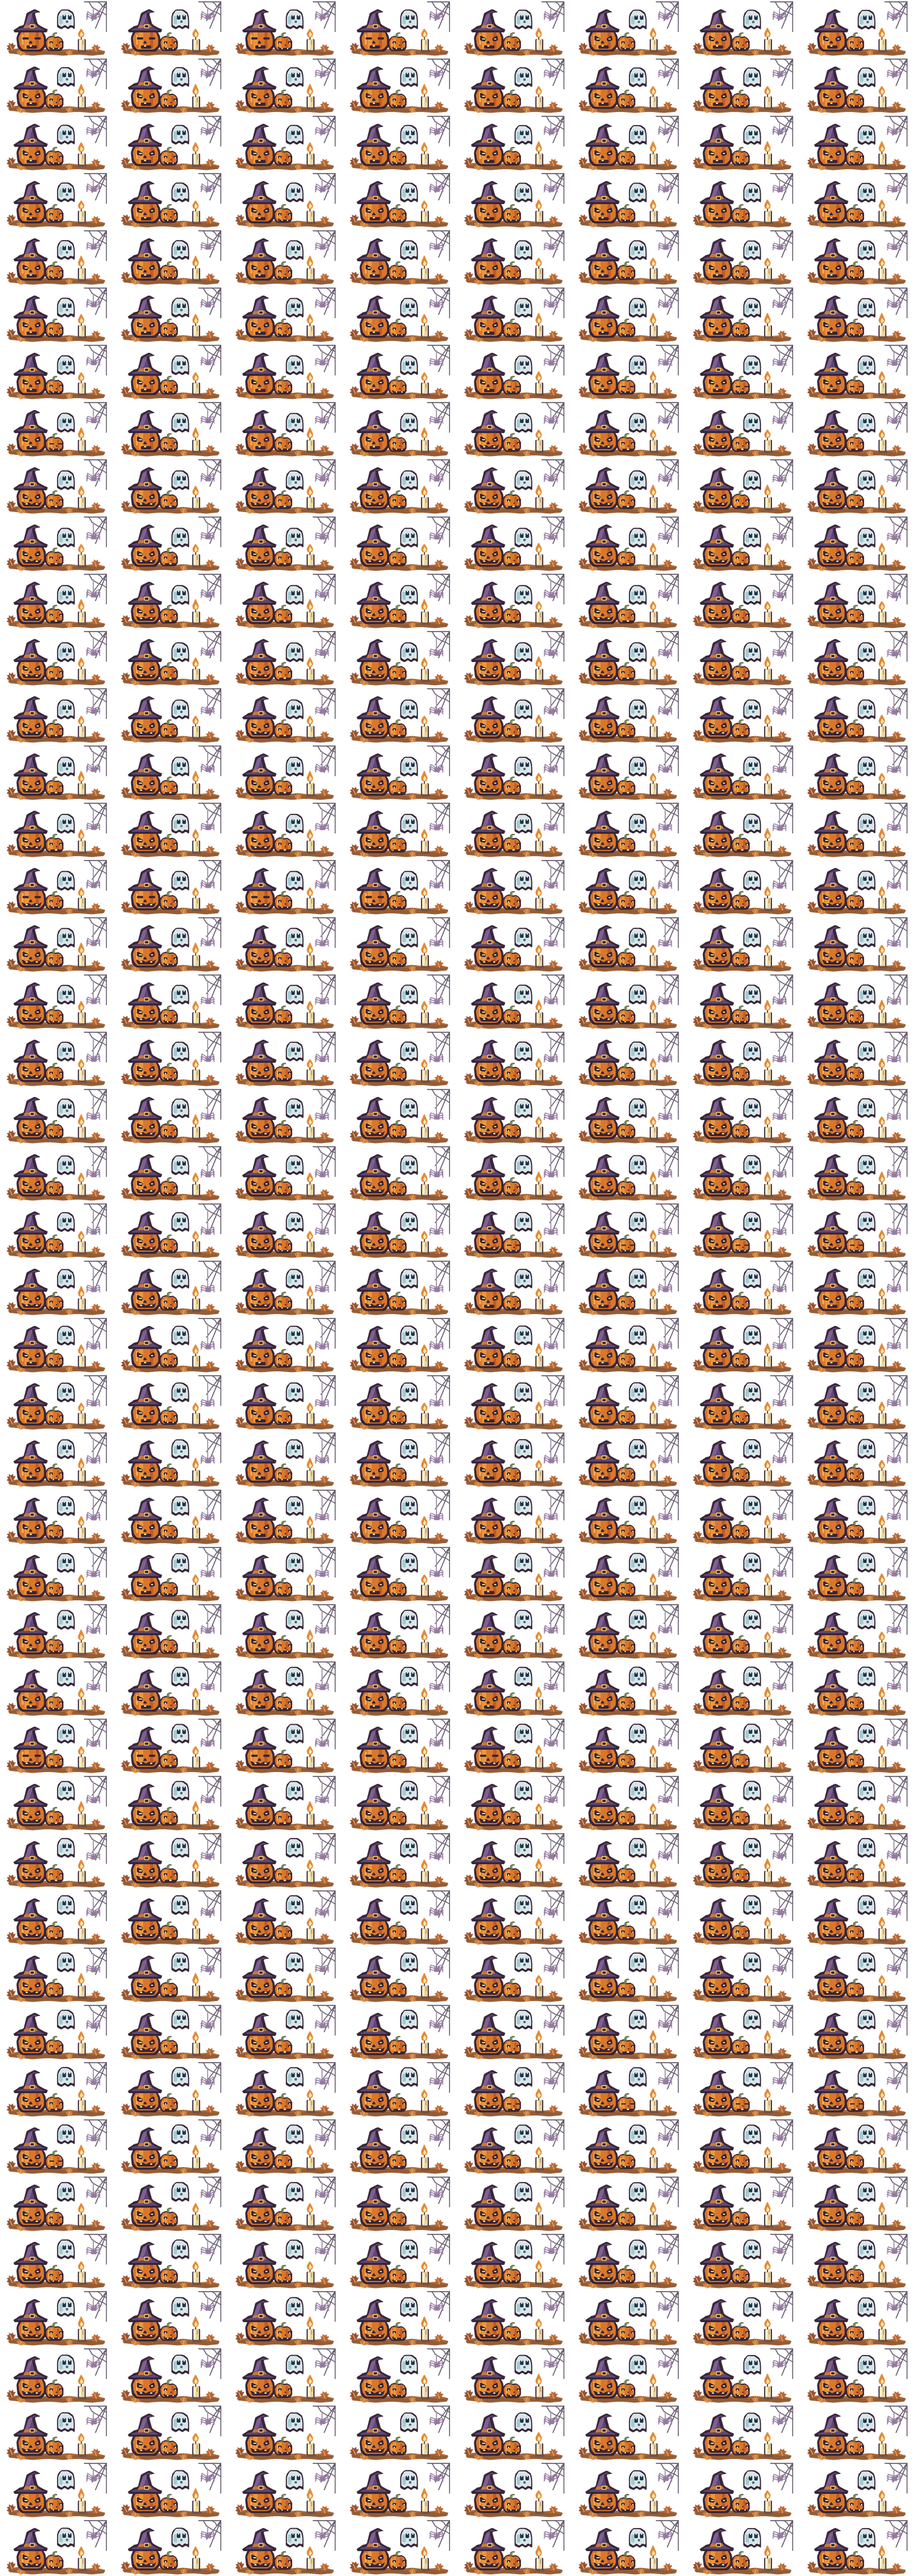
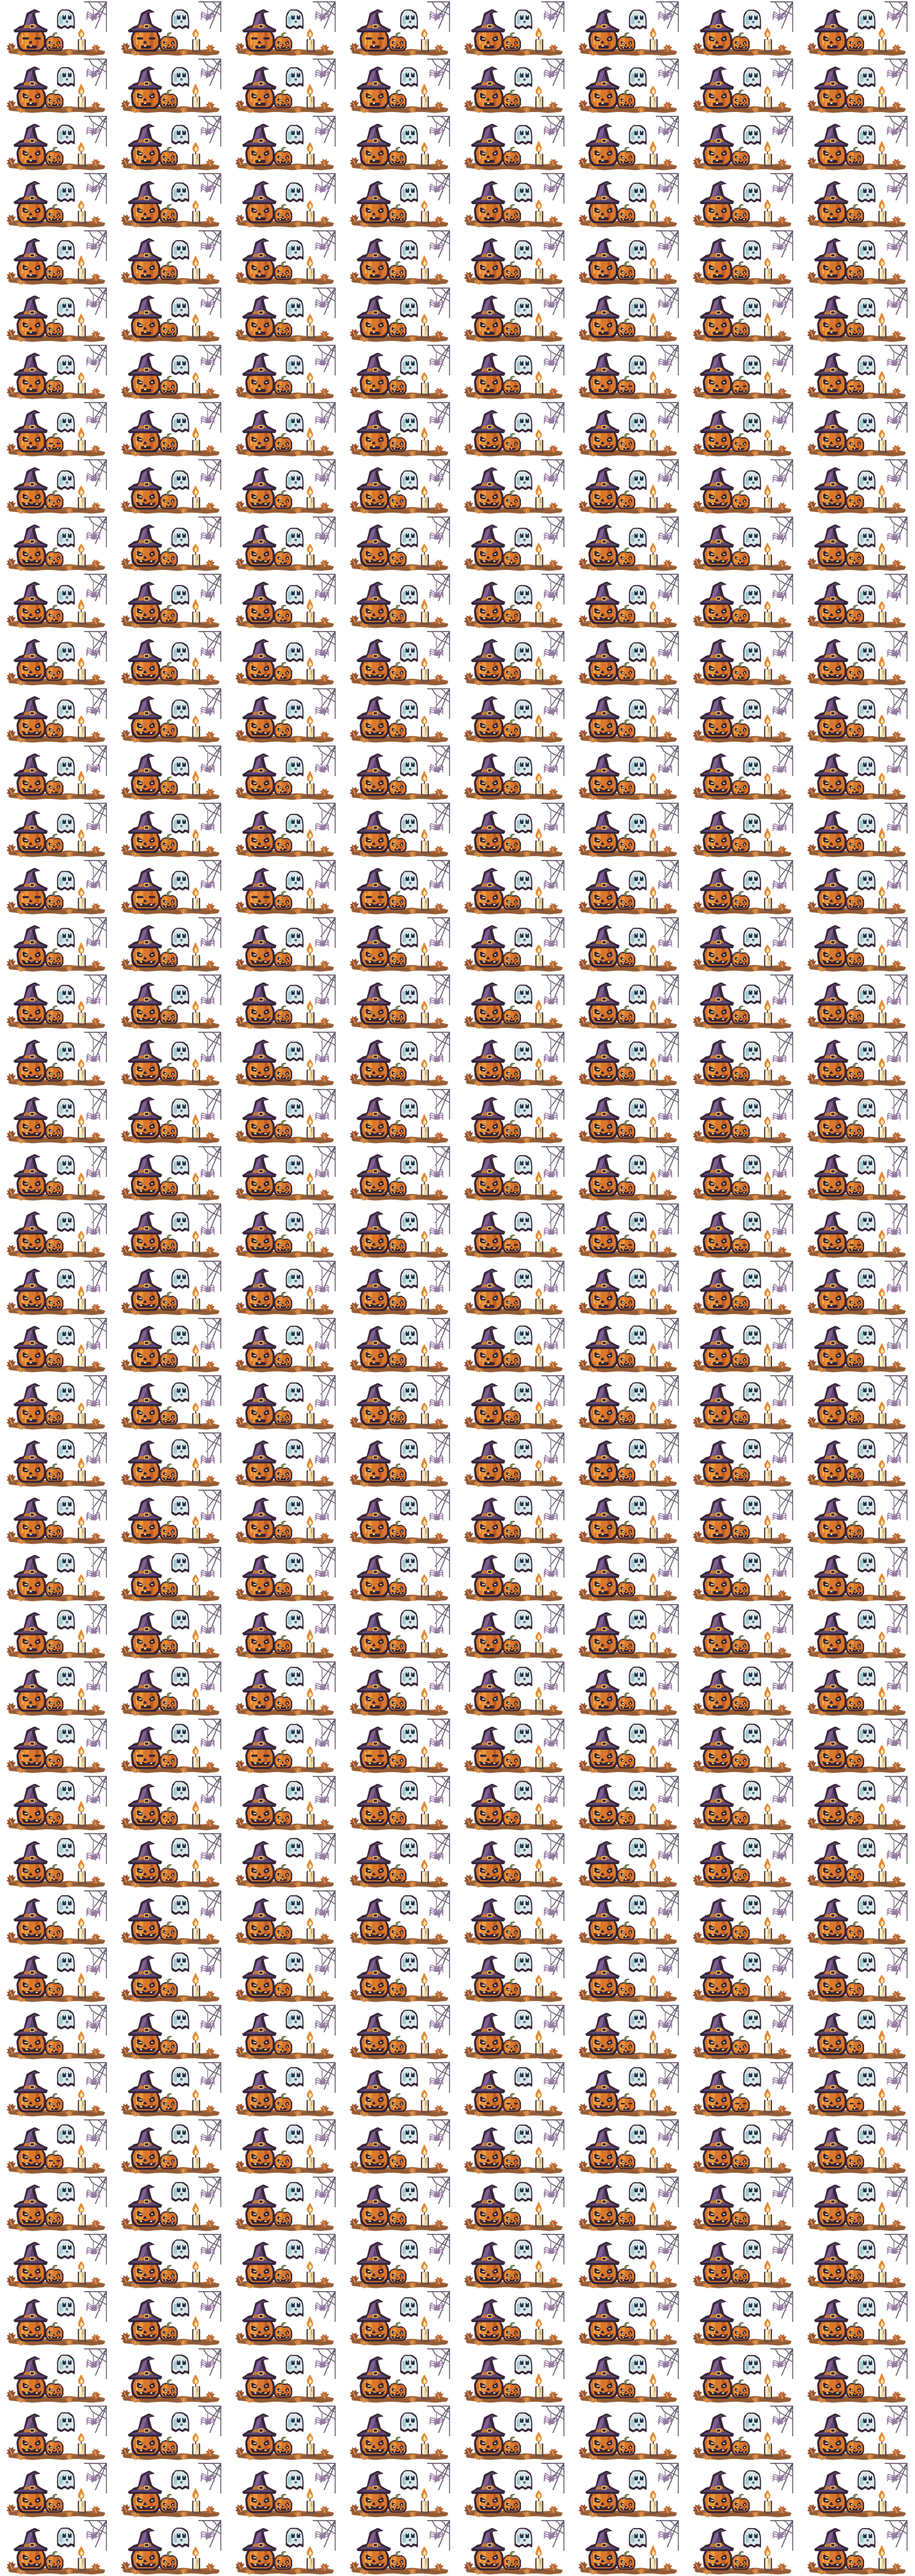
Reuse the wide pumpkin unchanged in compact autumn

diff --git a/script/seasonal_hd/sources/halloween.py b/script/seasonal_hd/sources/halloween.py
@@ -113,7 +113,18 @@ def frame(kind,t):
         web(im,91,t,True);ghost(im,46,t)
         leaf(im,0,43,.7,-25,'#955132');leaf(im,9,45,.7,15,'#cd8240');leaf(im,77,44,.7,-20,'#b76736')
         pumpkin(im,9,25,.92,t,0,True)
-        pumpkin(im,35,32,.58,t,2,clear_face=True)
+        # Copy the wide composition's exact small pumpkin before translating it.
+        small=Image.new('RGBA',(136,46))
+        pumpkin(small,66,32,.58,t,2)
+        if hasattr(small,'raw'):
+            scale=getattr(small,'drawing_scale',small.raw.width/small.width)
+            guard_x=(small.raw.width-small.width*scale)/2
+            guard_y=(small.raw.height-small.height*scale)/2
+            box=(int(guard_x+65*scale),int(guard_y),int(guard_x+85*scale),int(guard_y+46*scale))
+            sprite=small.raw.crop(box)
+            im.raw.alpha_composite(sprite,(int(guard_x+34*scale),int(guard_y)))
+        else:
+            im.alpha_composite(small.crop((65,0,85,46)),(34,0))
         candle(im,65,t);leaf(im,54,45,.55,20,'#cd8240')
     else:
         # One full-height character; remove scenery instead of shrinking everything.

diff --git a/script/seasonal_hd/mobile_safe.py b/script/seasonal_hd/mobile_safe.py
@@ -21,6 +21,7 @@ class OffsetDraw:
         return call
 class SafeCanvas(render.Canvas):
     def __init__(self,mode,size,color=None,raw=None):
+        self.drawing_scale=render.SCALE
         self.size=tuple(map(int,size));self.width,self.height=self.size
         self.raw=raw if raw is not None else Image.new(mode,((self.width+2*PAD)*render.SCALE,(self.height+2*PAD)*render.SCALE),color)
 class SafeImages:

diff --git a/script/seasonal_hd/README.md b/script/seasonal_hd/README.md
@@ -5,7 +5,8 @@ safety inset. Their original APNG hashes are in `mobile-master-sha256.json`.
 Compact and narrow scenes use the same guarded mobile drawing pipeline in
 `mobile_safe.py`, which measures the union of all animation frames before
 fitting a scene into its destination. Compact autumn has two pumpkins; its
-small face is drawn directly rather than cropped from a padded canvas.
+small pumpkin is copied from the wide scene's isolated layer at its original
+logical size, accounting for the guarded canvas offset.
 
 Only halloween (Autumn), newyear (Winter), easter (Spring), and kupala (Summer)
 are bundled. Each has wide, compact, and narrow compositions at 20 fps.
